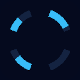
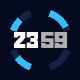
Tweaks constants to optimize for time 2 layout

Changed region(s): [[0.5, 0.4, 0.85, 0.6], [0.175, 0.4, 0.475, 0.6]]

diff --git a/src/c/constants.h b/src/c/constants.h
@@ -12,27 +12,42 @@
 #define EDGE_BOTTOM             2
 #define EDGE_RIGHT              2
 // Layout - Time
-#if defined(PBL_PLATFORM_EMERY) || defined(PBL_PLATFORM_GABBRO)
+#if defined(PBL_PLATFORM_EMERY) 
 #define HOURS_FONT              fonts_get_system_font(FONT_KEY_LECO_60_NUMBERS_AM_PM)
 #define HOURS_HEIGHT            60
 #define MINUTES_FONT            fonts_get_system_font(FONT_KEY_LECO_60_NUMBERS_AM_PM)
 #define MINUTES_HEIGHT          60
+#define HOURS_MINS_Y_DELTA      -10
+#define TIME_INSET              6
+#elif defined(PBL_PLATFORM_GABBRO)
+#define HOURS_FONT              fonts_get_system_font(FONT_KEY_LECO_60_NUMBERS_AM_PM)
+#define HOURS_HEIGHT            60
+#define MINUTES_FONT            fonts_get_system_font(FONT_KEY_LECO_60_NUMBERS_AM_PM)
+#define MINUTES_HEIGHT          60
+#define HOURS_MINS_Y_DELTA      -10
+#define TIME_INSET              6
 #else
 #define HOURS_FONT              fonts_get_system_font(FONT_KEY_LECO_42_NUMBERS)
 #define HOURS_HEIGHT            42
 #define MINUTES_FONT            fonts_get_system_font(FONT_KEY_LECO_42_NUMBERS)
 #define MINUTES_HEIGHT          42
-#endif
-#define TIME_INSET              4
 #define HOURS_MINS_Y_DELTA      -6
+#define TIME_INSET              4
+#endif
 
 // Layout - Date
-#if defined(PBL_PLATFORM_EMERY) || defined(PBL_PLATFORM_GABBRO)
-#define WEEKDAY_FONT            fonts_get_system_font(FONT_KEY_GOTHIC_24_BOLD)
-#define WEEKDAY_HEIGHT          24
-#define DATE_FONT               fonts_get_system_font(FONT_KEY_GOTHIC_24_BOLD)
-#define DATE_HEIGHT             24
+#if defined(PBL_PLATFORM_EMERY)
+#define WEEKDAY_FONT            fonts_get_system_font(FONT_KEY_GOTHIC_28_BOLD)
+#define WEEKDAY_HEIGHT          32
+#define DATE_FONT               fonts_get_system_font(FONT_KEY_GOTHIC_28_BOLD)
+#define DATE_HEIGHT             28
 #define DATE_INSET              6
+#elif defined(PBL_PLATFORM_GABBRO)
+#define WEEKDAY_FONT            fonts_get_system_font(FONT_KEY_GOTHIC_28_BOLD)
+#define WEEKDAY_HEIGHT          36
+#define DATE_FONT               fonts_get_system_font(FONT_KEY_GOTHIC_28_BOLD)
+#define DATE_HEIGHT             28
+#define DATE_INSET              8
 #else
 #define WEEKDAY_FONT            fonts_get_system_font(FONT_KEY_GOTHIC_18_BOLD)
 #define WEEKDAY_HEIGHT          18
@@ -54,9 +69,15 @@
 #define INDICATOR_TEXT_INSET    7
 
 // Layout - Battery
+#if defined(PBL_PLATFORM_EMERY) || defined(PBL_PLATFORM_GABBRO)
+#define BATTERY_BAR_HEIGHT      2
+#define BATTERY_BAR_WIDTH       30
+#define BATTERY_BAR_INSET       12
+#else
 #define BATTERY_BAR_HEIGHT      2
 #define BATTERY_BAR_WIDTH       20
 #define BATTERY_BAR_INSET       10
+#endif
 
 // ---------------------------------------------------------------------------
 // Themes — runtime color globals (set by theme_apply in pebble-arcs.c)
@@ -109,7 +130,7 @@ extern GColor g_color_indicator;
 #define ARC_NW_END              340
 //
 #if defined(PBL_PLATFORM_EMERY) || defined(PBL_PLATFORM_GABBRO)
-#define ARC_WIDTH               PBL_IF_ROUND_ELSE(8, 5)
+#define ARC_WIDTH               PBL_IF_ROUND_ELSE(8, 8)
 #else
 #define ARC_WIDTH               5
 #endif